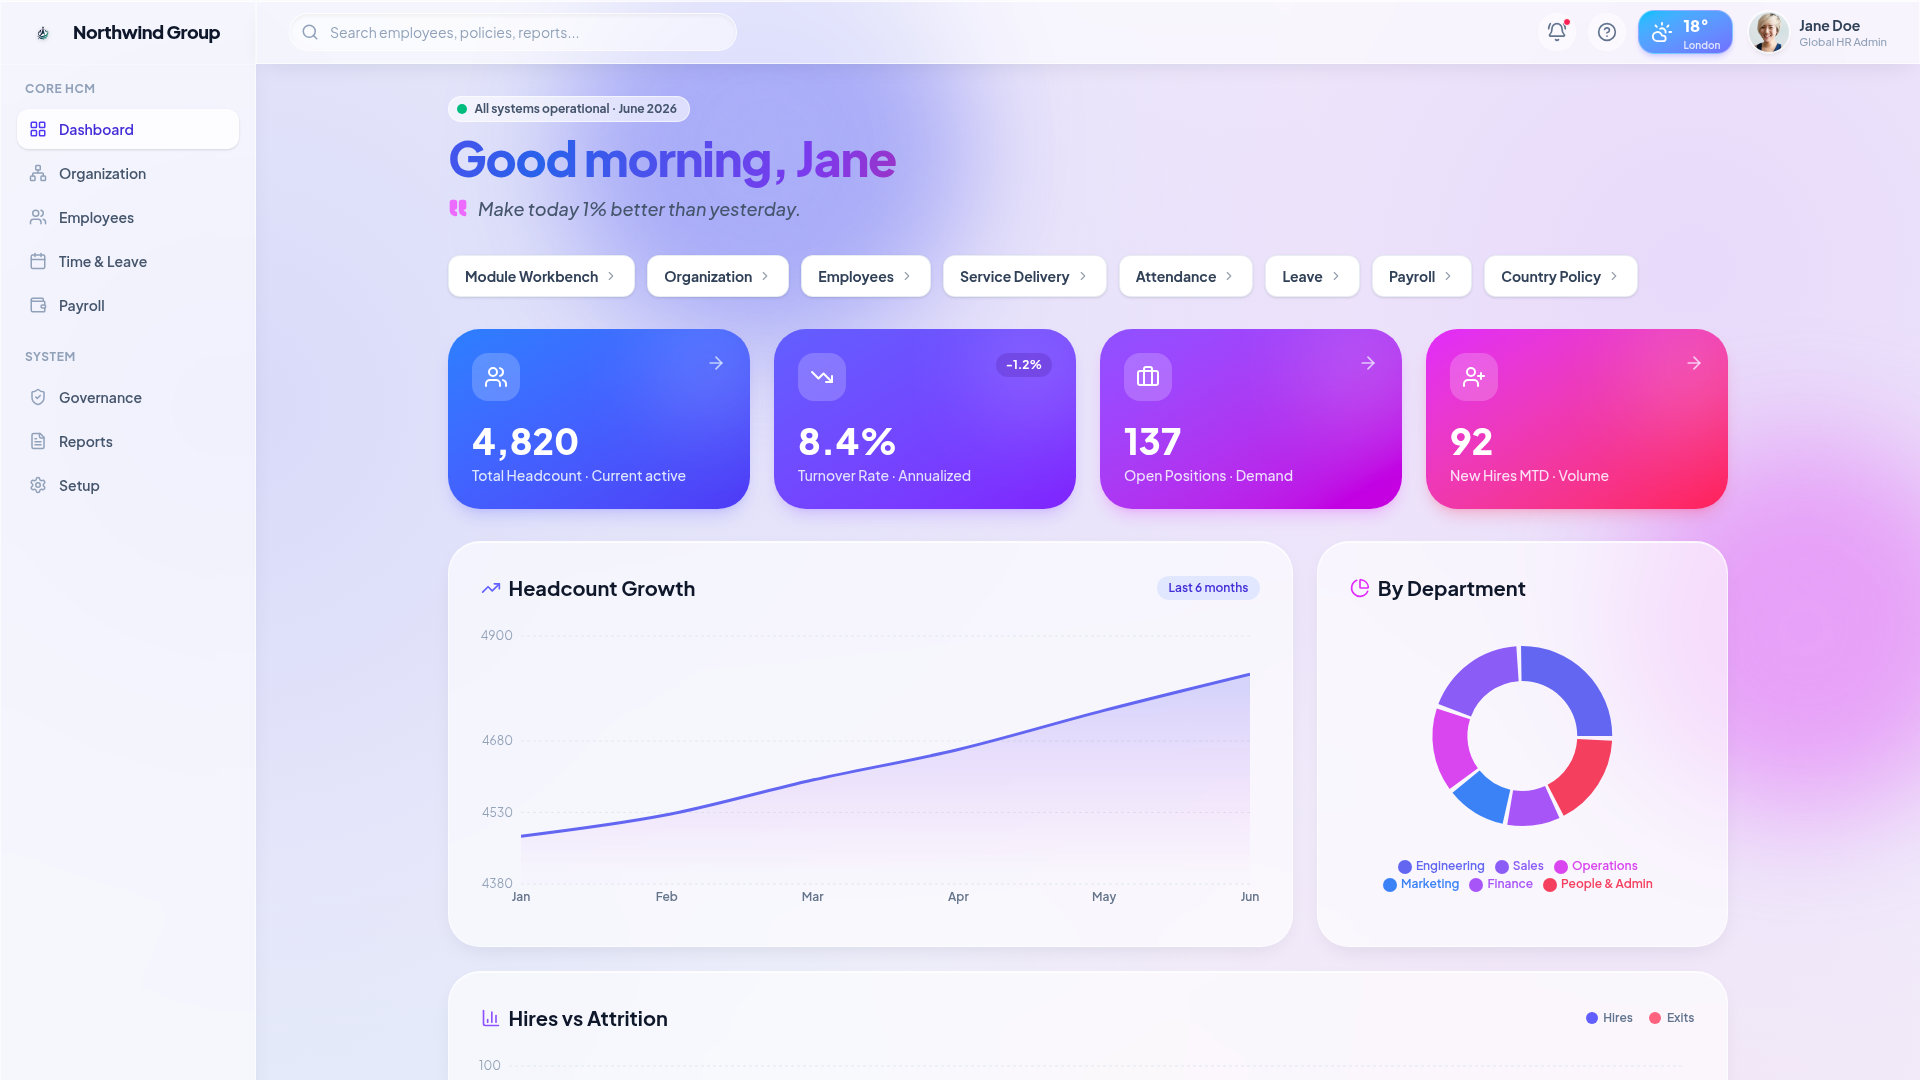
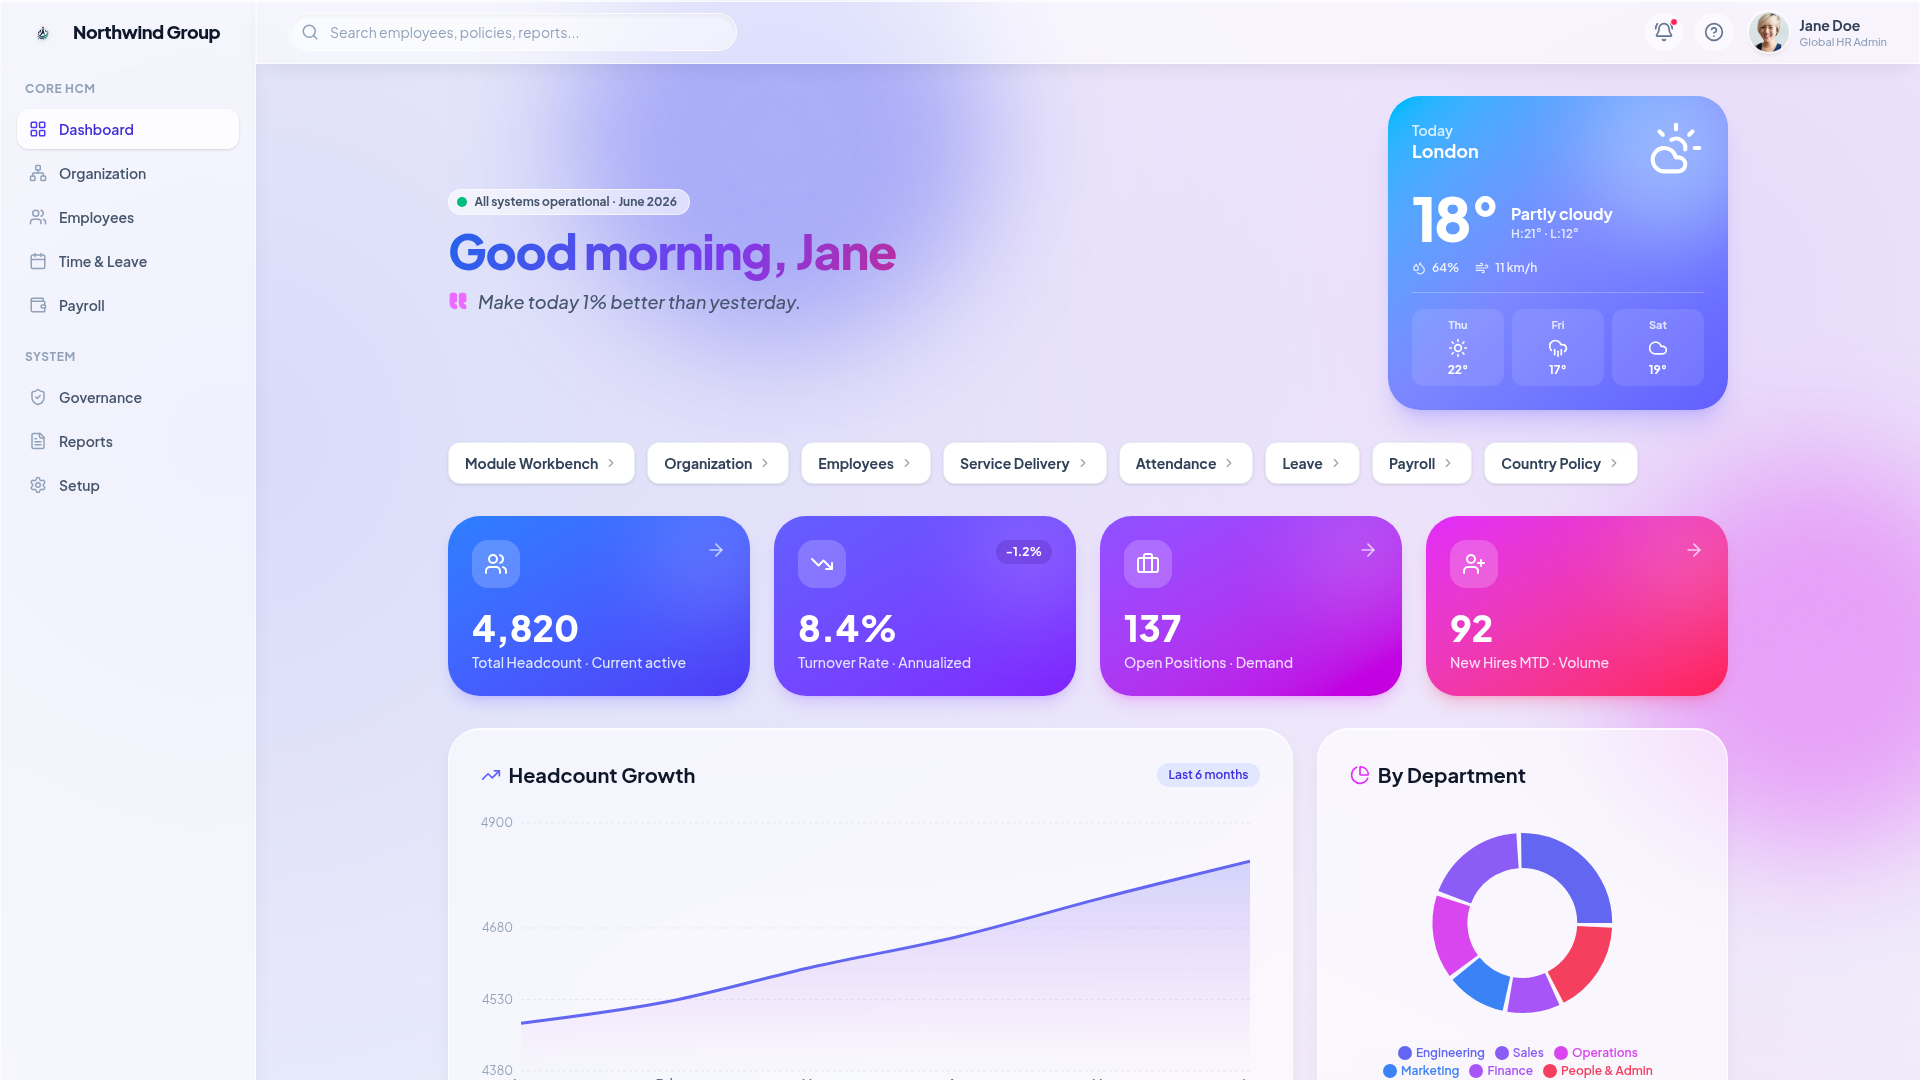
Add a detailed weather display next to the user greeting
Replace the small header weather widget with a large, dynamic weather card featuring condition-specific graphics, temperature, city, and forecast data.

Replit-Commit-Author: Agent
Replit-Commit-Session-Id: 4e185bfa-7984-477e-87ea-a35de27cbb4c
Replit-Commit-Checkpoint-Type: full_checkpoint
Replit-Commit-Event-Id: 75318abc-581e-47c1-b026-6eccfe24e7a7
Replit-Commit-Screenshot-Url: https://storage.googleapis.com/screenshot-production-us-central1/4ba3be44-b2b7-437a-b9c0-b3eb791af892/4e185bfa-7984-477e-87ea-a35de27cbb4c/UuCX2g5
Replit-Helium-Checkpoint-Created: true

diff --git a/artifacts/mockup-sandbox/src/components/mockups/hr-dashboard/Fusion.tsx b/artifacts/mockup-sandbox/src/components/mockups/hr-dashboard/Fusion.tsx
@@ -28,6 +28,13 @@ import {
   BarChart3,
   PieChart,
   CloudSun,
+  Sun,
+  Cloud,
+  CloudRain,
+  CloudSnow,
+  CloudLightning,
+  Droplets,
+  Wind,
 } from "lucide-react";
 import {
   AreaChart as ReAreaChart,
@@ -54,10 +61,69 @@ const companyBranding = {
   logo: companyLogo,
 };
 
-const dailyWeather = {
+const weatherThemes = {
+  sunny: {
+    label: "Sunny",
+    Icon: Sun,
+    gradient: "from-amber-400 via-orange-400 to-orange-500",
+    glow: "bg-amber-200/50",
+  },
+  "partly-cloudy": {
+    label: "Partly cloudy",
+    Icon: CloudSun,
+    gradient: "from-sky-400 via-indigo-400 to-indigo-500",
+    glow: "bg-sky-200/50",
+  },
+  cloudy: {
+    label: "Cloudy",
+    Icon: Cloud,
+    gradient: "from-slate-400 via-slate-500 to-slate-600",
+    glow: "bg-slate-200/50",
+  },
+  rainy: {
+    label: "Rainy",
+    Icon: CloudRain,
+    gradient: "from-sky-500 via-blue-600 to-blue-700",
+    glow: "bg-blue-300/50",
+  },
+  stormy: {
+    label: "Stormy",
+    Icon: CloudLightning,
+    gradient: "from-indigo-600 via-violet-700 to-slate-800",
+    glow: "bg-indigo-300/50",
+  },
+  snowy: {
+    label: "Snowy",
+    Icon: CloudSnow,
+    gradient: "from-sky-300 via-cyan-300 to-cyan-400",
+    glow: "bg-white/60",
+  },
+} as const;
+
+type WeatherCondition = keyof typeof weatherThemes;
+
+const dailyWeather: {
+  city: string;
+  tempC: number;
+  hiC: number;
+  loC: number;
+  humidity: number;
+  wind: number;
+  condition: WeatherCondition;
+  forecast: { day: string; condition: WeatherCondition; tempC: number }[];
+} = {
   city: "London",
   tempC: 18,
-  condition: "Partly cloudy",
+  hiC: 21,
+  loC: 12,
+  humidity: 64,
+  wind: 11,
+  condition: "partly-cloudy",
+  forecast: [
+    { day: "Thu", condition: "sunny", tempC: 22 },
+    { day: "Fri", condition: "rainy", tempC: 17 },
+    { day: "Sat", condition: "cloudy", tempC: 19 },
+  ],
 };
 
 const dailyQuotes = [
@@ -162,6 +228,8 @@ const hiresAttrition = [
 
 export function Fusion() {
   const dailyQuote = getDailyQuote(currentUser);
+  const wx = weatherThemes[dailyWeather.condition];
+  const WxIcon = wx.Icon;
   return (
     <div className="min-h-screen fusion-bg text-slate-900 font-['Plus_Jakarta_Sans',sans-serif] flex relative">
       {/* Floating mesh blobs — artistic depth (clipping scoped to this decorative layer only) */}
@@ -291,21 +359,6 @@ export function Fusion() {
             <button aria-label="Help" className="p-2 text-slate-500 hover:text-slate-800 transition-colors bg-white/40 hover:bg-white/70 rounded-full border border-white/50">
               <HelpCircle size={20} />
             </button>
-            <div
-              aria-label={`Today's weather in ${dailyWeather.city}: ${dailyWeather.tempC} degrees, ${dailyWeather.condition}`}
-              title={`${dailyWeather.city} · ${dailyWeather.condition}`}
-              className="hidden sm:flex items-center gap-2.5 h-11 px-3 rounded-2xl bg-gradient-to-br from-sky-400/90 to-indigo-500/90 text-white shadow-md shadow-indigo-500/20 border border-white/30"
-            >
-              <CloudSun size={22} className="shrink-0" />
-              <div className="flex flex-col leading-none">
-                <span className="text-base font-extrabold">
-                  {dailyWeather.tempC}°
-                </span>
-                <span className="text-[10px] font-semibold text-white/80 mt-0.5">
-                  {dailyWeather.city}
-                </span>
-              </div>
-            </div>
             <a
               href="#"
               aria-label="View your profile"
@@ -333,9 +386,9 @@ export function Fusion() {
         <div className="flex-1 p-6 lg:p-8">
           <div className="max-w-7xl mx-auto space-y-8">
             {/* Page header */}
-            <div className="flex flex-col md:flex-row md:items-end justify-between gap-4">
-              <div>
-                <div className="inline-flex items-center gap-2 mb-3 pl-2 pr-3 py-1 rounded-full bg-white/60 border border-white/60 backdrop-blur-md text-xs font-bold text-slate-600">
+            <div className="flex flex-col lg:flex-row lg:items-stretch justify-between gap-6">
+              <div className="flex flex-col justify-center">
+                <div className="inline-flex self-start items-center gap-2 mb-3 pl-2 pr-3 py-1 rounded-full bg-white/60 border border-white/60 backdrop-blur-md text-xs font-bold text-slate-600">
                   <span className="relative flex h-2.5 w-2.5">
                     <span className="fusion-pulse absolute inline-flex h-full w-full rounded-full bg-emerald-400" />
                     <span className="relative inline-flex rounded-full h-2.5 w-2.5 bg-emerald-500" />
@@ -353,6 +406,65 @@ export function Fusion() {
                   />
                   <span className="italic">{dailyQuote}</span>
                 </p>
+              </div>
+
+              {/* Daily weather — large graphic card */}
+              <div
+                aria-label={`Today's weather in ${dailyWeather.city}: ${dailyWeather.tempC} degrees, ${wx.label}`}
+                className={`relative overflow-hidden shrink-0 w-full lg:w-[340px] rounded-[2rem] p-6 text-white bg-gradient-to-br ${wx.gradient} shadow-xl shadow-indigo-500/20`}
+              >
+                <div
+                  className={`absolute -right-8 -top-8 w-44 h-44 rounded-full blur-2xl ${wx.glow}`}
+                  aria-hidden="true"
+                />
+                <div className="relative z-10 flex items-start justify-between">
+                  <div>
+                    <p className="text-sm font-semibold text-white/80">Today</p>
+                    <p className="text-lg font-bold leading-tight">
+                      {dailyWeather.city}
+                    </p>
+                  </div>
+                  <WxIcon size={56} strokeWidth={1.75} className="fusion-float shrink-0" />
+                </div>
+
+                <div className="relative z-10 mt-3 flex items-end gap-3">
+                  <span className="text-6xl font-extrabold leading-none tracking-tighter">
+                    {dailyWeather.tempC}°
+                  </span>
+                  <div className="pb-1.5">
+                    <p className="text-base font-bold">{wx.label}</p>
+                    <p className="text-xs font-semibold text-white/80">
+                      H:{dailyWeather.hiC}° · L:{dailyWeather.loC}°
+                    </p>
+                  </div>
+                </div>
+
+                <div className="relative z-10 mt-3 flex items-center gap-4 text-xs font-semibold text-white/85">
+                  <span className="flex items-center gap-1.5">
+                    <Droplets size={14} /> {dailyWeather.humidity}%
+                  </span>
+                  <span className="flex items-center gap-1.5">
+                    <Wind size={14} /> {dailyWeather.wind} km/h
+                  </span>
+                </div>
+
+                <div className="relative z-10 mt-4 pt-4 border-t border-white/25 grid grid-cols-3 gap-2">
+                  {dailyWeather.forecast.map((f) => {
+                    const FIcon = weatherThemes[f.condition].Icon;
+                    return (
+                      <div
+                        key={f.day}
+                        className="flex flex-col items-center gap-1 rounded-xl bg-white/10 py-2"
+                      >
+                        <span className="text-[11px] font-bold text-white/80">
+                          {f.day}
+                        </span>
+                        <FIcon size={20} strokeWidth={2} />
+                        <span className="text-xs font-bold">{f.tempC}°</span>
+                      </div>
+                    );
+                  })}
+                </div>
               </div>
             </div>
 
